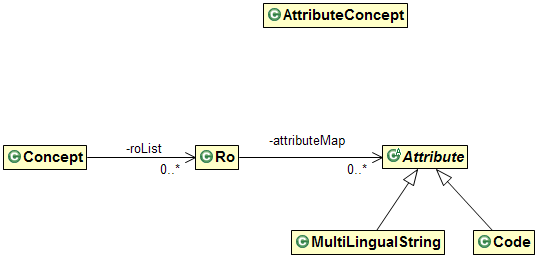
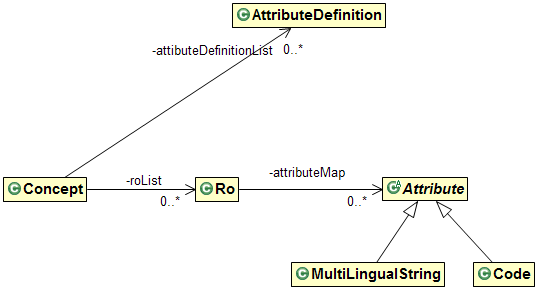
adding attributeDefinition list to Concept. Changing name AttributeConcept to AttributeDefition

diff --git a/refplus-domain/src/test/java/org/refplus/domain/core/ConceptTest.java b/refplus-domain/src/test/java/org/refplus/domain/core/ConceptTest.java
@@ -50,19 +50,26 @@ public class ConceptTest {
 
 	@Test
 	public void testConceptAreas() {
-		Concept subunitConcept = new Concept(new Vector<Ro>());
-		AttributeConcept subUnitAttributeConcept = new AttributeConcept();
 
-		Concept subDivisionConcept = new Concept(new Vector<Ro>());
-		AttributeConcept subDivisionAttributeConcept = new AttributeConcept();
+		AttributeDefinition subUnitAttributeConcept = new AttributeDefinition();
+		Vector<AttributeDefinition> attibuteDefinitionList = new Vector<AttributeDefinition>();
+		attibuteDefinitionList.add(subUnitAttributeConcept);
+		Concept subunitConcept = new Concept(new Vector<Ro>(), attibuteDefinitionList);
 
-		Concept subAreaConcept = new Concept(new Vector<Ro>());
-		AttributeConcept subAreaAttributeConcept = new AttributeConcept();
+		AttributeDefinition subDivisionAttributeConcept = new AttributeDefinition();
+		Vector<AttributeDefinition> subDivisionAttributeDefinitionList = new Vector<AttributeDefinition>();
+		subDivisionAttributeDefinitionList.add(subDivisionAttributeConcept);
+		Concept subDivisionConcept = new Concept(new Vector<Ro>(), subDivisionAttributeDefinitionList);
 
-		// Concept division = new D;
+		AttributeDefinition subAreaAttributeConcept = new AttributeDefinition();
+		Vector<AttributeDefinition> subAreaAttributeDefinitionList = new Vector<AttributeDefinition>();
+		subDivisionAttributeDefinitionList.add(subAreaAttributeConcept);
+		Concept subAreaConcept = new Concept(new Vector<Ro>(), subAreaAttributeDefinitionList);
 
-		Concept majorAreaConcept = new Concept(new Vector<Ro>());
-		AttributeConcept majorAreaAttributeConcept = new AttributeConcept();
+		AttributeDefinition majorAreaAttributeConcept = new AttributeDefinition();
+		Vector<AttributeDefinition> majorAreaAttributeDefinitionList = new Vector<AttributeDefinition>();
+		majorAreaAttributeDefinitionList.add(majorAreaAttributeConcept);
+		Concept majorAreaConcept = new Concept(new Vector<Ro>(), majorAreaAttributeDefinitionList);
 
 		Group subDivisionSubUnit = new Group(subDivisionConcept, subunitConcept);
 		Group subAreaSubDivision = new Group(subDivisionConcept, subAreaConcept);
@@ -145,18 +152,27 @@ public class ConceptTest {
 
 	@Test
 	public void testConceptSpecies() {
-		Concept speciesConcept = new Concept(new Vector<Ro>());
-		AttributeConcept alpha3CodeConcept = new AttributeConcept();
-		AttributeConcept asfisDescriptionConcept = new AttributeConcept();
+		AttributeDefinition alpha3CodeConcept = new AttributeDefinition();
+		Vector<AttributeDefinition> alpha3List = new Vector<AttributeDefinition>();
+		alpha3List.add(alpha3CodeConcept);
+		Concept speciesConcept = new Concept(new Vector<Ro>(), alpha3List);
 
-		Concept familyConcept = new Concept(new Vector<Ro>());
-		AttributeConcept familyCodeAttributeConcept = new AttributeConcept();
+		AttributeDefinition asfisDescriptionConcept = new AttributeDefinition();
 
-		Concept orderConcept = new Concept(new Vector<Ro>());
-		AttributeConcept orderCodeAttributeConcept = new AttributeConcept();
+		AttributeDefinition familyCodeAttributeConcept = new AttributeDefinition();
+		Vector<AttributeDefinition> familyList = new Vector<AttributeDefinition>();
+		familyList.add(familyCodeAttributeConcept);
+		Concept familyConcept = new Concept(new Vector<Ro>(), familyList);
 
-		Concept iscaapGroupConcept = new Concept(new Vector<Ro>());
-		AttributeConcept iscaapGroupCodeAttributeConcept = new AttributeConcept();
+		AttributeDefinition orderCodeAttributeConcept = new AttributeDefinition();
+		Vector<AttributeDefinition> orderList = new Vector<AttributeDefinition>();
+		orderList.add(orderCodeAttributeConcept);
+		Concept orderConcept = new Concept(new Vector<Ro>(), orderList);
+
+		AttributeDefinition iscaapGroupCodeAttributeConcept = new AttributeDefinition();
+		Vector<AttributeDefinition> iscaapGroupList = new Vector<AttributeDefinition>();
+		iscaapGroupList.add(iscaapGroupCodeAttributeConcept);
+		Concept iscaapGroupConcept = new Concept(new Vector<Ro>(), iscaapGroupList);
 
 		Group familySpecies = new Group(familyConcept, speciesConcept);
 		Group orderFamily = new Group(orderConcept, familyConcept);

diff --git a/refplus-domain/src/main/java/org/refplus/domain/core/Ro.java b/refplus-domain/src/main/java/org/refplus/domain/core/Ro.java
@@ -30,18 +30,18 @@ public class Ro {
 	 * 
 	 * * AttributeConcept = {name, longName, code, value}
 	 */
-	private Map<AttributeConcept, Attribute> attributeMap;
+	private Map<AttributeDefinition, Attribute> attributeMap;
 
-	public Ro(AttributeConcept codeAttributeConcept, Code code, AttributeConcept mlsAttributeConcept,
+	public Ro(AttributeDefinition codeAttributeConcept, Code code, AttributeDefinition mlsAttributeConcept,
 			MultiLingualString mls) {
-		attributeMap = new HashMap<AttributeConcept, Attribute>();
+		attributeMap = new HashMap<AttributeDefinition, Attribute>();
 		attributeMap.put(codeAttributeConcept, code);
 		attributeMap.put(mlsAttributeConcept, mls);
 	}
 
-	public Ro(AttributeConcept codeAttributeConcept, String code) {
+	public Ro(AttributeDefinition codeAttributeConcept, String code) {
 		Code codeObject = new Code(code);
-		attributeMap = new HashMap<AttributeConcept, Attribute>();
+		attributeMap = new HashMap<AttributeDefinition, Attribute>();
 		attributeMap.put(codeAttributeConcept, codeObject);
 	}
 

diff --git a/refplus-domain/src/main/java/org/refplus/domain/util/LinkUtil.java b/refplus-domain/src/main/java/org/refplus/domain/util/LinkUtil.java
@@ -1,7 +1,7 @@
 package org.refplus.domain.util;
 
 import org.apache.commons.lang.StringUtils;
-import org.refplus.domain.core.AttributeConcept;
+import org.refplus.domain.core.AttributeDefinition;
 import org.refplus.domain.core.Concept;
 import org.refplus.domain.core.Ro;
 import org.refplus.domain.groups.Group;
@@ -51,7 +51,7 @@ public class LinkUtil {
 	 * @param codeString
 	 * @return
 	 */
-	public Ro addCodeAsRo(Concept subunitConcept, AttributeConcept attributeConcept, String codeString) {
+	public Ro addCodeAsRo(Concept subunitConcept, AttributeDefinition attributeConcept, String codeString) {
 
 		Ro ro = new Ro(attributeConcept, codeString);
 		if (StringUtils.isBlank(codeString)) {

diff --git a/refplus-domain/src/main/java/org/refplus/domain/history/HConcept.java b/refplus-domain/src/main/java/org/refplus/domain/history/HConcept.java
@@ -1,14 +1,6 @@
 package org.refplus.domain.history;
-import java.util.Vector;
 
-import org.refplus.domain.core.Concept;
-import org.refplus.domain.core.Ro;
 
-public class HConcept extends Concept {
-
-	public HConcept(Vector<Ro> roList) {
-		super(roList);
-		// TODO Auto-generated constructor stub
-	}
+public class HConcept {
 
 }

diff --git a/refplus-domain/src/main/java/org/refplus/domain/core/Concept.java b/refplus-domain/src/main/java/org/refplus/domain/core/Concept.java
@@ -24,4 +24,6 @@ public class Concept extends SingleCoded {
 	 */
 	private Vector<Ro> roList;
 
+	private Vector<AttributeDefinition> attibuteDefinitionList;
+
 }

diff --git a/refplus-domain/src/main/java/org/refplus/domain/core/AttributeDefinition.java b/refplus-domain/src/main/java/org/refplus/domain/core/AttributeDefinition.java
@@ -1,0 +1,5 @@
+package org.refplus.domain.core;
+
+public class AttributeDefinition extends SingleCoded {
+
+}
